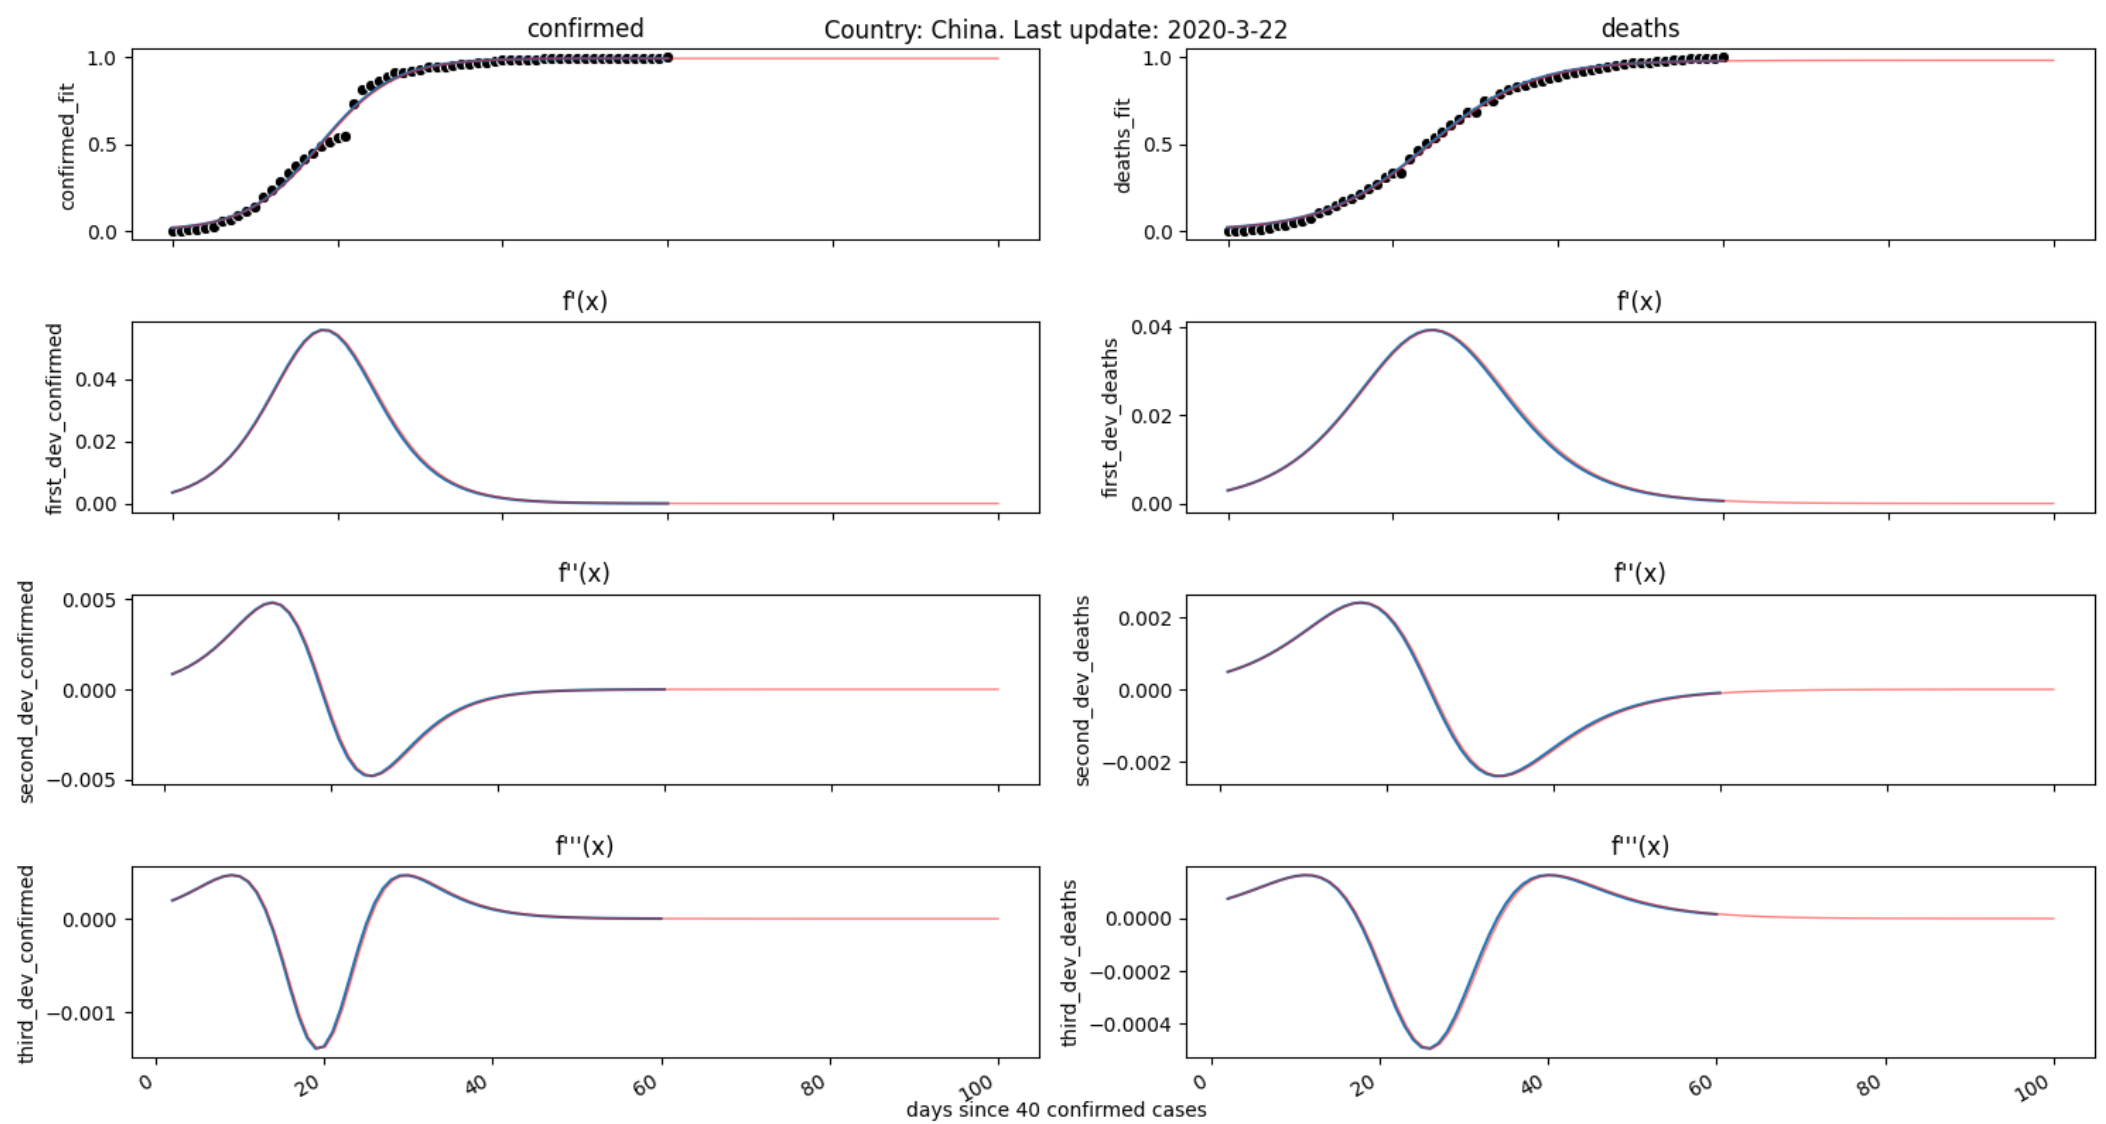
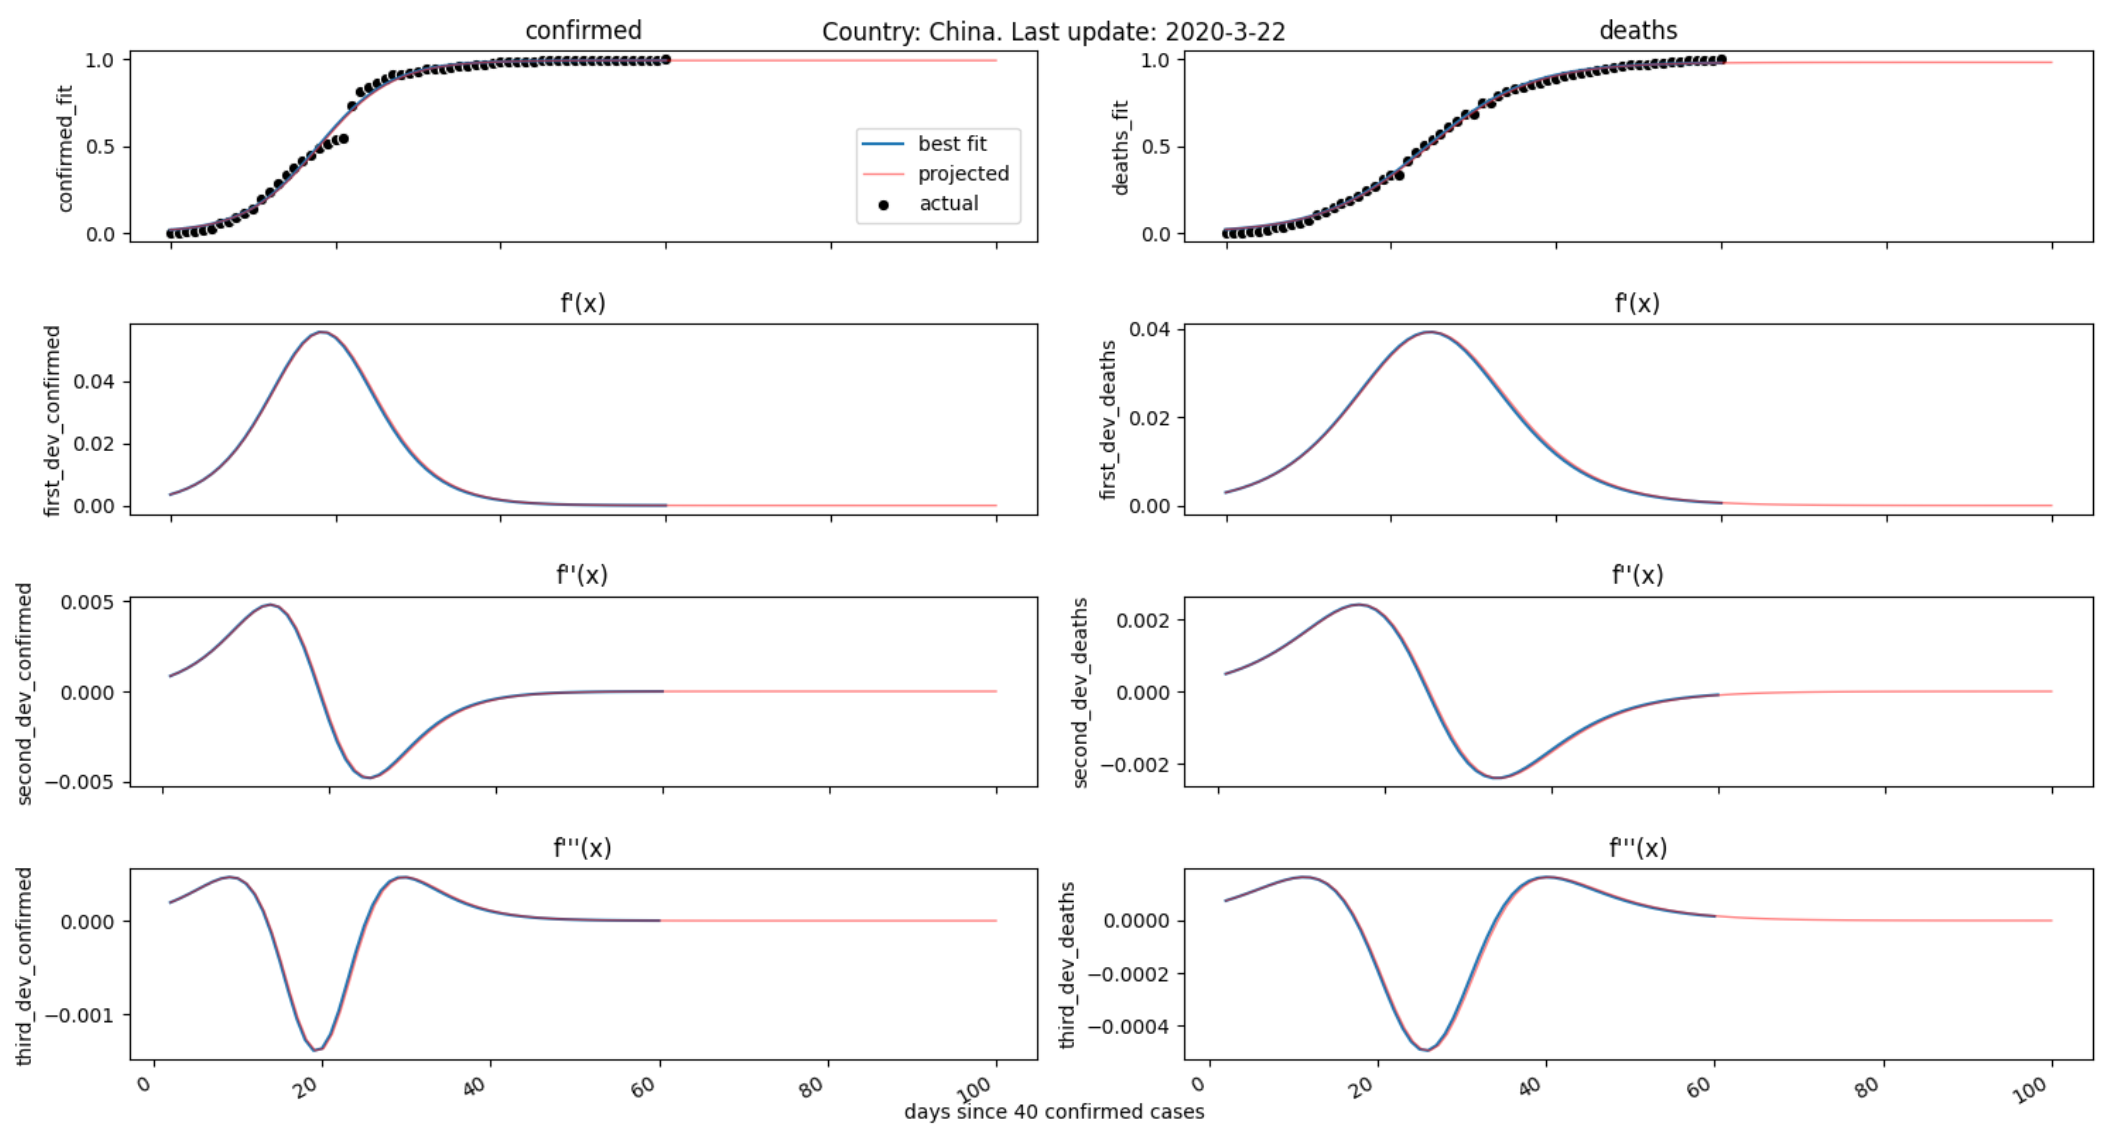
Add legend

diff --git a/src/main.py b/src/main.py
@@ -51,12 +51,13 @@ def run_fit_on_single_country(country):
     x = df.index
     x_proj = df_projected.index
 
-    utils.plot(x, df['confirmed_fit'], ax=axs[0, 0], points=df['confirmed'], title='confirmed')
+    utils.plot(x, df['confirmed_fit'], ax=axs[0, 0], points=df['confirmed'], title='confirmed',
+               label='best fit', scatter_label='actual')
     utils.plot(x, df['first_dev_confirmed'], ax=axs[1, 0], title="f'(x)")
     utils.plot(x, df['second_dev_confirmed'], ax=axs[2, 0], title="f''(x)")
     utils.plot(x, df['third_dev_confirmed'], ax=axs[3, 0], title="f'''(x)")
 
-    utils.plot_projection(x_proj, df_projected['confirmed_fit'], ax=axs[0, 0])
+    utils.plot_projection(x_proj, df_projected['confirmed_fit'], ax=axs[0, 0], label='projected')
     utils.plot_projection(x_proj, df_projected['first_dev_confirmed'], ax=axs[1, 0])
     utils.plot_projection(x_proj, df_projected['second_dev_confirmed'], ax=axs[2, 0])
     utils.plot_projection(x_proj, df_projected['third_dev_confirmed'], ax=axs[3, 0])
@@ -71,6 +72,7 @@ def run_fit_on_single_country(country):
     utils.plot_projection(x_proj, df_projected['second_dev_deaths'], ax=axs[2, 1])
     utils.plot_projection(x_proj, df_projected['third_dev_deaths'], ax=axs[3, 1])
 
+    axs[0, 0].legend(loc=(0.8, 0.1))
     fig.autofmt_xdate()
     fig.text(0.5, 0.01, f'days since {config.MIN_CONFIRMED_CASES} confirmed cases', ha='center')
     plt.suptitle(f"Country: {country}. Last update: {date}")
@@ -79,4 +81,4 @@ def run_fit_on_single_country(country):
 
 
 if __name__ == "__main__":
-    run_fit_on_single_country('China')
+    run_fit_on_single_country('Italy')

diff --git a/src/utils.py b/src/utils.py
@@ -45,16 +45,16 @@ def compute_derivative(df, column, x, f):
     return fit_predict(x, y, f)
 
 
-def plot(x, y, ax, title, points=None):
+def plot(x, y, ax, title, points=None, label=None, scatter_label=None):
     """Plot some data points on a line (and optionally a scatter plot)"""
-    sns.lineplot(x, y, ax=ax)
+    sns.lineplot(x, y, ax=ax, label=label)
     ax.set_title(title)
     ax.set_xlabel('')
     ax.set_ylabel('')
     if points is not None:
-        sns.scatterplot(x, scale(points.values), ax=ax, color='black')
+        sns.scatterplot(x, scale(points.values), ax=ax, color='black', label=scatter_label)
 
 
-def plot_projection(x, y, ax):
+def plot_projection(x, y, ax, label=None):
     """Plot the projected future line."""
-    sns.lineplot(x, y, ax=ax, linewidth=1, color='red', alpha=0.5)
+    sns.lineplot(x, y, ax=ax, linewidth=1, color='red', alpha=0.5, label=label)
